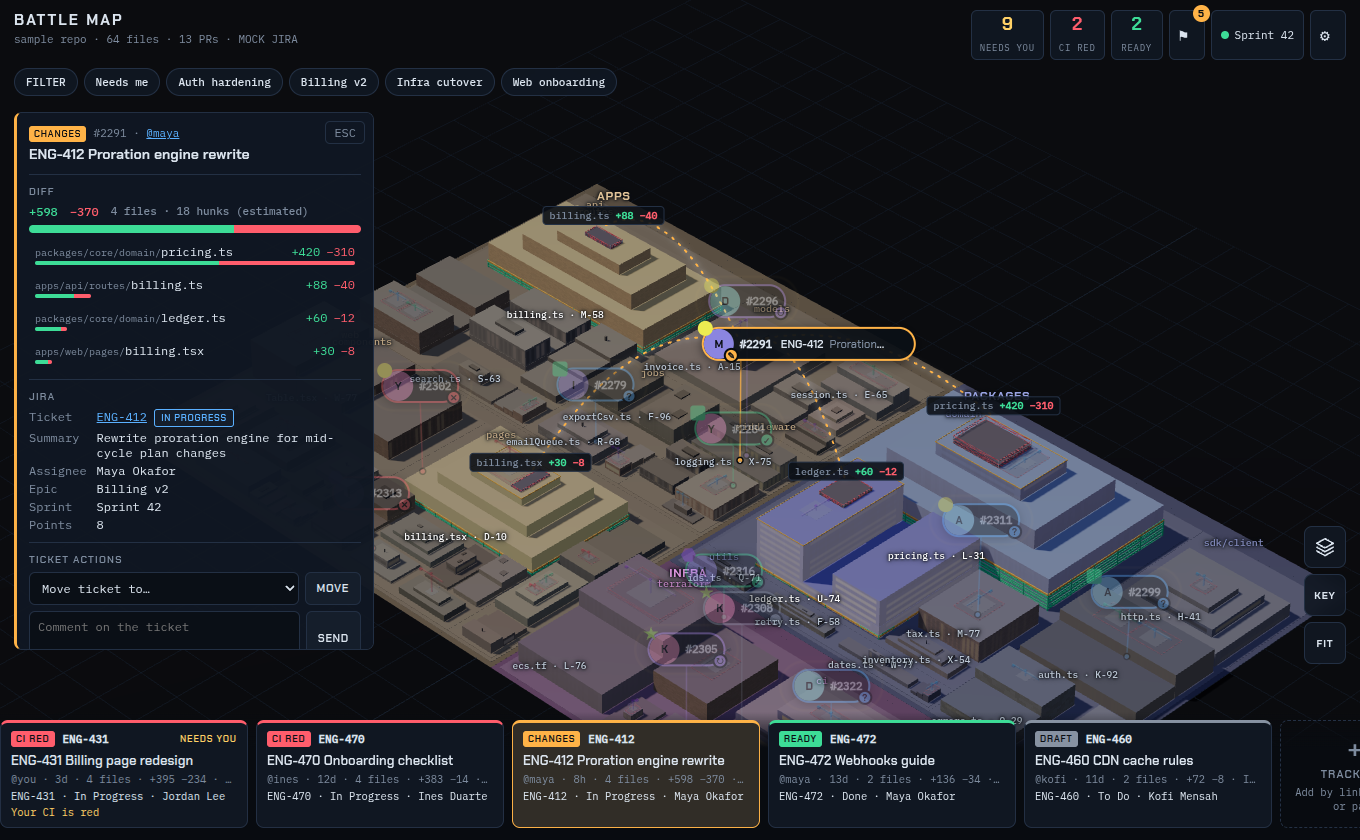
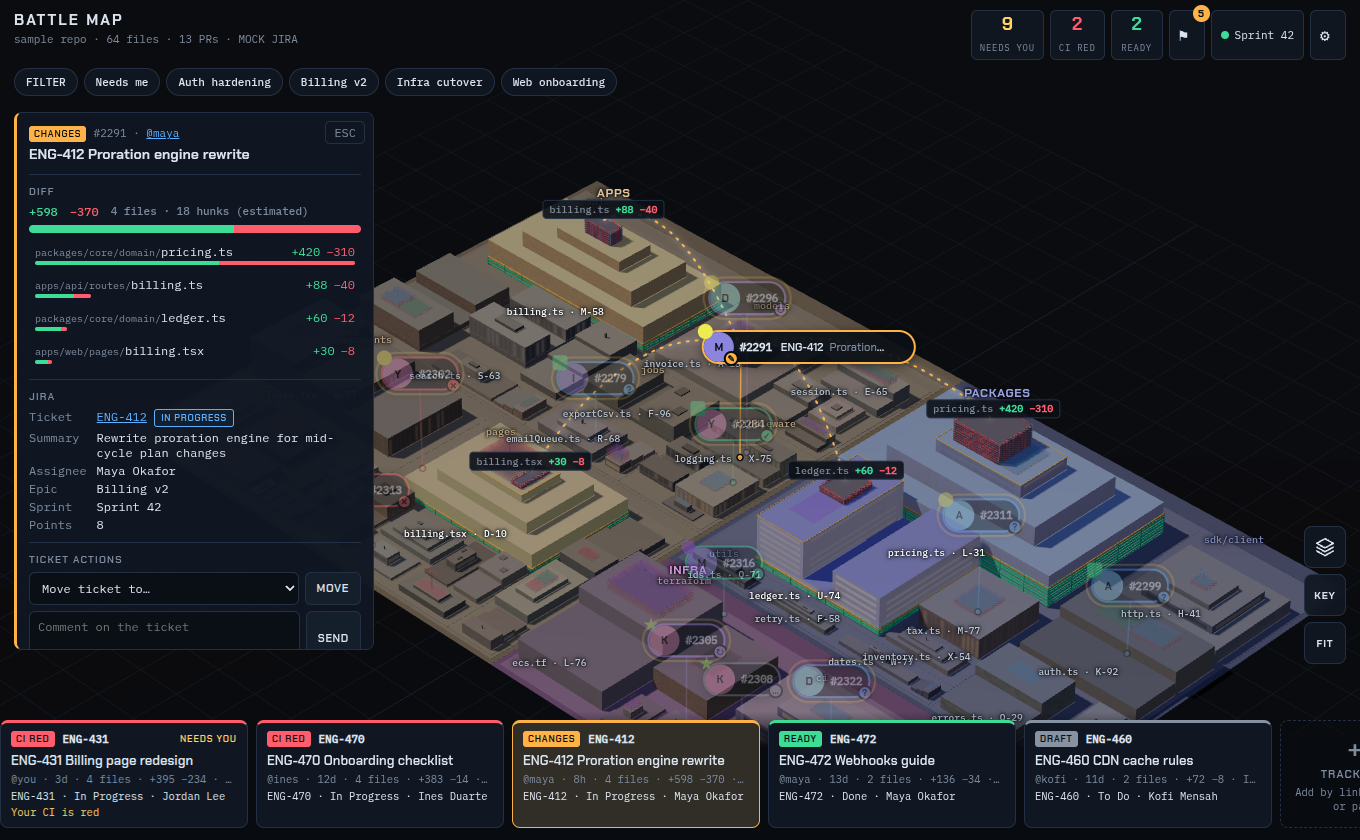
Construction sites: size everything on the one diff scale
A crane is one model scaled by lines added, never by its roof slot, so the same lines are the
same crane on any file (measured before: a 9-line crane spanned 3.5 to 42 units across files and
stood 6 tall against a scale of 3.4; now 3.5 against 3.4). The roof slot becomes a flat pad that
still shows the share of the file. Deletions are a stack of fixed-height taped floors, as many as
the deleted lines need on the same scale; focused scaffolding climbs as high as the lines added.
Flags, labels and dotted lines use the site's own height.

Changed region(s): [[0.2779, 0.2167, 0.9574, 0.8667], [0.9265, 0.65, 0.9574, 0.681]]

diff --git a/test/sites.test.js b/test/sites.test.js
@@ -1,6 +1,6 @@
 import test from 'node:test';
 import assert from 'node:assert/strict';
-import { craneParts, tapeFloor, scaffoldParts, siteParts } from '../web/sites.js';
+import { craneParts, tapeFloor, scaffoldParts, siteParts, FLOOR_H, MAX_FLOORS } from '../web/sites.js';
 import { buildLayout } from '../web/layout.js';
 import { buildingFor, DEFAULT_STYLE } from '../web/building.js';
 import { planSpires } from '../web/spires.js';
@@ -9,15 +9,30 @@ import { sampleFiles } from '../server/sample.js';
 const SLOT = { x: 50, y: 30, w: 12, d: 6 };
 const inside = (p, r, e = 1e-6) => p.x - p.w / 2 >= r.x - r.w / 2 - e && p.x + p.w / 2 <= r.x + r.w / 2 + e && p.y - p.d / 2 >= r.y - r.d / 2 - e && p.y + p.d / 2 <= r.y + r.d / 2 + e;
 
-test('a crane stands on its roof, inside its slot, as tall as asked, in status colours', () => {
-  for (const slot of [SLOT, { x: 10, y: 10, w: 4, d: 9 }, { x: 0, y: 0, w: 1.2, d: 1.2 }]) {
-    const parts = craneParts(slot, 20, 14);
-    assert.ok(parts.length >= 7 && parts.length <= 12);
-    for (const p of parts) assert.ok(inside(p, slot, 1e-6) || p.tone === 'metal', 'nothing hangs past the slot'), assert.ok(p.z >= 20 - 1e-9 && p.h > 0);
-    const top = Math.max(...parts.map((p) => p.z + p.h));
-    assert.ok(top >= 20 + 14 * 0.9 && top <= 20 + 14 + 2.5, `the crane is about as tall as the diff (${top - 20})`);
-    assert.ok(parts.some((p) => p.tone === 'status') && parts.some((p) => p.tone === 'statusDark'));
+const height = (n) => 1.15 * Math.sqrt(n);
+const top = (parts) => Math.max(...parts.filter((p) => !p.diag).map((p) => p.z + p.h));
+const bbox = (parts) => { const q = parts.filter((p) => p.tone !== 'pad'), xs = q.flatMap((p) => [p.x - p.w / 2, p.x + p.w / 2]), ys = q.flatMap((p) => [p.y - p.d / 2, p.y + p.d / 2]); return { w: Math.max(...xs) - Math.min(...xs), d: Math.max(...ys) - Math.min(...ys) }; };
+
+test('a crane is exactly as tall as the diff scale says, wherever it stands', () => {
+  for (const slot of [SLOT, { x: 10, y: 10, w: 4, d: 9 }, { x: 0, y: 0, w: 1.2, d: 1.2 }, { x: 0, y: 0, w: 90, d: 60 }]) for (const h of [3.4, 11.5, 23]) {
+    const parts = craneParts(slot, 20, h);
+    assert.ok(Math.abs(top(parts) - (20 + h)) < 1e-9, `height ${top(parts) - 20} for ${h}`);
+    assert.ok(parts.every((p) => p.z >= 20 - 1e-9 && p.h > 0));
+    assert.ok(parts.some((p) => p.tone === 'status') && parts.some((p) => p.tone === 'statusDark') && parts.some((p) => p.tone === 'pad'));
   }
+});
+
+test('the crane is one model scaled by the diff, never by the roof: same lines, same crane on any slot', () => {
+  const a = craneParts({ x: 0, y: 0, w: 4, d: 4 }, 0, 6), b = craneParts({ x: 0, y: 0, w: 80, d: 50 }, 0, 6);
+  assert.deepEqual(bbox(a), bbox(b), 'the pad changes with the file, the crane does not');
+  const small = bbox(craneParts({ x: 0, y: 0, w: 60, d: 40 }, 0, 3.4)), big = bbox(craneParts({ x: 0, y: 0, w: 5, d: 4 }, 0, 23));
+  assert.ok(big.w > small.w * 3, 'a 400-line crane on a tiny roof is still much bigger than a 9-line crane on a huge one');
+  let last = 0; for (const h of [2, 5, 10, 20, 30]) { const w = bbox(craneParts(SLOT, 0, h)).w; assert.ok(w > last, 'bigger diff, bigger crane'); last = w; }
+});
+
+test('the pad is the share of the file, and flat', () => {
+  const pad = craneParts({ x: 5, y: 5, w: 14, d: 7 }, 10, 8).find((p) => p.tone === 'pad');
+  assert.deepEqual([pad.w, pad.d, pad.z], [14, 7, 10]); assert.ok(pad.h < 0.5);
 });
 
 test('the jib runs along the longer side of the slot', () => {
@@ -48,35 +63,46 @@ test('scaffolding wraps the footprint from the ground to the top, with the top r
 });
 
 const column = (o = {}) => ({ x: 20, y: 20, w: 8, d: 5, z0: 12, total: 9, parts: [{ dz: 0, h: 9, kind: 'pr' }], add: 40, del: 6, focused: false, ...o });
-test('overview: a crane for additions, plus one taped floor when lines were deleted', () => {
-  const shell = { rect: { x: 10, y: 10, w: 20, h: 15 }, h: 12 };
-  const both = siteParts(column(), shell, { loc: 200 });
-  assert.ok(both.some((p) => p.tone === 'status') && both.some((p) => p.tone === 'tape') && !both.some((p) => p.tone === 'add'), 'crane and tape, no scaffolding');
-  const crane = both.filter((p) => p.tone !== 'tape' && p.tone !== 'post' && p.tone !== 'floor'); assert.ok(crane.every((p) => p.z >= 12));
-  const only = siteParts(column({ del: 0 }), shell, { loc: 200 }); assert.ok(!only.some((p) => p.tone === 'tape' || p.tone === 'floor'));
-  const del = siteParts(column({ add: 0, del: 30 }), shell, { loc: 200 }); assert.ok(del.some((p) => p.tone === 'tape') && !del.some((p) => p.tone === 'status'), 'pure deletion: just the taped floor');
-  const top = Math.max(...both.filter((p) => !p.diag).map((p) => p.z + p.h)); assert.ok(top <= 12 + 9 + 2.6, 'about as tall as the diff says');
+const SHELL = { rect: { x: 10, y: 10, w: 20, h: 15 }, h: 12 };
+const floors = (parts) => parts.filter((p) => p.tone === 'floor').length;
+test('overview: a crane as tall as the additions, on one taped floor per FLOOR_H of deletions', () => {
+  const both = siteParts(column({ add: 100, del: 30 }), SHELL, { heightOf: height });
+  assert.ok(both.parts.some((p) => p.tone === 'status') && both.parts.some((p) => p.tone === 'tape') && !both.parts.some((p) => p.tone === 'add'));
+  const nf = floors(both.parts); assert.equal(nf, Math.round(height(30) / FLOOR_H));
+  assert.ok(Math.abs(both.top - (12 + nf * FLOOR_H + height(100))) < 1e-9, 'floors, then a crane of exactly the additions');
+  const only = siteParts(column({ del: 0 }), SHELL, { heightOf: height }); assert.equal(floors(only.parts), 0); assert.ok(Math.abs(only.top - (12 + height(40))) < 1e-9);
+  const del = siteParts(column({ add: 0, del: 30 }), SHELL, { heightOf: height }); assert.ok(del.parts.some((p) => p.tone === 'tape') && !del.parts.some((p) => p.tone === 'status'), 'pure deletion: just the floors');
+  assert.equal(floors(siteParts(column({ del: 1 }), SHELL, { heightOf: height }).parts), 1, 'any deletion is at least one floor');
+  assert.equal(floors(siteParts(column({ del: 1e6 }), SHELL, { heightOf: height }).parts), MAX_FLOORS, 'and there is a ceiling');
 });
 
-test('focused: scaffolding for the additions, a taped floor per deleting hunk, no crane', () => {
-  const shell = { rect: { x: 10, y: 10, w: 20, h: 15 }, h: 12 };
-  const parts = [{ dz: 0, h: 3, kind: 'add', n: 30 }, { dz: 3, h: 1, kind: 'del', n: 4 }, { dz: 4, h: 2, kind: 'add', n: 10 }, { dz: 6, h: 1, kind: 'del', n: 8 }, { dz: 7, h: 1, kind: 'del', n: 9 }, { dz: 8, h: 1, kind: 'del', n: 9 }, { dz: 9, h: 1, kind: 'del', n: 9 }];
-  const s = siteParts(column({ focused: true, parts, add: 40, del: 39 }), shell, { loc: 100 });
-  assert.ok(s.some((p) => p.tone === 'add') && !s.some((p) => p.tone === 'statusDark'), 'scaffolding, no crane');
-  assert.equal(s.filter((p) => p.tone === 'floor').length, 3, 'one floor per deleting hunk, the rest merged, at most three');
-  const floors = s.filter((p) => p.tone === 'floor').map((p) => p.z); assert.ok(floors[0] === 12 && floors[1] > floors[0] && floors[2] > floors[1], 'stacked on the roof');
-  const scaf = s.filter((p) => p.tone === 'add'); assert.ok(Math.max(...scaf.filter((p) => !p.diag).map((p) => p.z + p.h)) <= shell.h + 1e-6, 'scaffolding never rises past the walled part');
-  const small = siteParts(column({ focused: true, add: 2, del: 0, parts: [{ dz: 0, h: 1, kind: 'add', n: 2 }] }), shell, { loc: 1000 });
-  assert.ok(Math.max(...small.filter((p) => p.tone === 'add' && !p.diag).map((p) => p.z + p.h)) >= 3 - 1e-6, 'a tiny change still gets a visible scaffold');
+test('the same lines are the same size in every column: two columns with 9 added lines match, however big their files and roofs', () => {
+  const a = siteParts(column({ add: 9, del: 0, w: 3, d: 3 }), SHELL, { heightOf: height }), b = siteParts(column({ add: 9, del: 0, w: 70, d: 40 }), SHELL, { heightOf: height });
+  assert.equal(a.top, b.top); assert.deepEqual(bbox(a.parts), bbox(b.parts));
+  assert.ok(siteParts(column({ add: 400, del: 0, w: 3, d: 3 }), SHELL, { heightOf: height }).top - 12 > (a.top - 12) * 4, 'and 400 lines stand several times taller than 9');
 });
 
-test('every column in the sample turns into a bounded number of boxes that stay on its roof', () => {
+test('focused: scaffolding as tall as the additions, floors for the deleting hunks, no crane', () => {
+  const parts = [{ dz: 0, h: 3, kind: 'add', n: 30 }, { dz: 3, h: 1, kind: 'del', n: 4 }, { dz: 4, h: 2, kind: 'add', n: 10 }, { dz: 6, h: 1, kind: 'del', n: 150 }];
+  const s = siteParts(column({ focused: true, parts, add: 40, del: 154 }), SHELL, { heightOf: height });
+  assert.ok(s.parts.some((p) => p.tone === 'add') && !s.parts.some((p) => p.tone === 'statusDark'), 'scaffolding, no crane');
+  assert.equal(floors(s.parts), 1 + Math.round(height(150) / FLOOR_H), 'a 4-line hunk is one floor, a 150-line hunk several');
+  const tops = s.parts.filter((p) => p.tone === 'floor').map((p) => p.z); assert.ok(tops[0] === 12 && tops.every((z, i) => !i || z > tops[i - 1]), 'stacked on the roof');
+  const scaf = s.parts.filter((p) => p.tone === 'add' && !p.diag), tall = Math.max(...scaf.map((p) => p.z + p.h));
+  assert.ok(Math.abs(tall - Math.min(SHELL.h, height(40))) < 1e-6, 'as tall as 40 added lines, up to the walled part');
+  const huge = siteParts(column({ focused: true, add: 5000, del: 0, parts: [{ dz: 0, h: 5, kind: 'add', n: 5000 }] }), SHELL, { heightOf: height });
+  assert.ok(Math.max(...huge.parts.filter((p) => p.tone === 'add' && !p.diag).map((p) => p.z + p.h)) <= SHELL.h + 1e-6, 'never past the walled part');
+  const small = siteParts(column({ focused: true, add: 2, del: 0, parts: [{ dz: 0, h: 1, kind: 'add', n: 2 }] }), SHELL, { heightOf: height });
+  assert.ok(Math.max(...small.parts.filter((p) => p.tone === 'add' && !p.diag).map((p) => p.z + p.h)) >= 2 - 1e-6, 'a tiny change still gets a visible scaffold');
+});
+
+test('every column in the sample turns into a bounded number of boxes', () => {
   const layout = buildLayout(sampleFiles()), st = { ...DEFAULT_STYLE }, b = new Map(), roofs = new Map();
   for (const l of layout.leaves) { const x = buildingFor(l, st, { gear: false }); b.set(l.path, x); roofs.set(l.path, { r: x.roof, height: x.roof.z }); }
   const prs = [{ id: '#1', status: 'review_requested', files: layout.leaves.map((l) => ({ path: l.path, add: 25, del: 5, hunks: [{ add: 25, del: 5 }] })) }];
   for (const focusId of [null, '#1']) for (const col of planSpires({ byPath: layout.byPath, prs, roofs, focusId })) {
-    const parts = siteParts(col, b.get(col.path).shell, { loc: layout.byPath.get(col.path).loc });
-    assert.ok(parts.length > 0 && parts.length < 120, `${parts.length} boxes`);
-    assert.ok(parts.every((p) => Number.isFinite(p.x + p.y + p.z) && (p.diag ? p.len > 0 : p.w > 0 && p.d > 0 && p.h > 0)));
+    const { parts, top: t } = siteParts(col, b.get(col.path).shell, { heightOf: height });
+    assert.ok(parts.length > 0 && parts.length < 220, `${parts.length} boxes`);
+    assert.ok(parts.every((p) => Number.isFinite(p.x + p.y + p.z) && (p.diag ? p.len > 0 : p.w > 0 && p.d > 0 && p.h > 0)) && t >= col.z0);
   }
 });

diff --git a/web/sites.js b/web/sites.js
@@ -11,26 +11,27 @@
 const clamp = (v, lo, hi) => Math.min(hi, Math.max(lo, v));
 
 /**
- * A tower crane that fits a roof slot. Its height is `h`; the jib runs along the longer side of the slot.
+ * A tower crane whose size is the diff and nothing else. The whole crane is one model scaled by `h` (its mast height,
+ * which the caller takes from the global diff scale), so a 9-line crane is a small crane wherever it stands and two
+ * cranes compare by eye. The roof slot only says where it stands: its pad is flat and its area is the share of the
+ * file changed, so that second fact is still there without bending the first. A big crane may overhang a small roof.
  * Mast and jib take the status colour, the counterweight a darker one, the hook line and hook are metal.
  */
 export function craneParts({ x, y, w, d }, z0, h) {
-  const longX = w >= d, L = Math.max(w, d) * 0.96, s = clamp(Math.min(w, d) * 0.2, 0.45, 1.3);
+  const longX = w >= d, s = clamp(h * 0.055, 0.22, 1.3), L = clamp(h * 0.85, 2.2, 40);
   const at = (o) => (longX ? { x: x + o, y } : { x, y: y + o });   // a point along the jib, o from the mast
   const box = (p, bw, bd, z, bh, tone) => ({ x: p.x, y: p.y, w: bw, d: bd, z, h: bh, tone });
   const along = (len, thick) => (longX ? [len, thick] : [thick, len]);
-  const jibZ = z0 + Math.max(h - s, h * 0.9), parts = [];
-  parts.push(box({ x, y }, Math.min(w, d) * 0.7, Math.min(w, d) * 0.7, z0, Math.min(0.4, h * 0.1), 'metal'));        // base
+  const jibZ = z0 + h - s * 1.1, parts = [];                      // the jib's top is the crane's height
+  parts.push(box({ x, y }, w, d, z0, 0.2, 'pad'));                                                                       // the pad: the share of the file
   parts.push(box({ x, y }, s, s, z0, Math.max(0.1, jibZ - z0), 'status'));                                               // mast
-  const jibLen = L * 0.72;                                                                                       // jib: from just past the mast out to the far end
-  const [jw, jd] = along(jibLen, s * 0.9);
+  const jibLen = L * 0.72, [jw, jd] = along(jibLen, s * 0.9);
   parts.push(box(at(L * 0.5 - jibLen / 2), jw, jd, jibZ, s * 1.1, 'status'));
   const [cw, cd] = along(L * 0.26, s * 0.9);                                                                            // counter-jib
   parts.push(box(at(-L * 0.5 + L * 0.13), cw, cd, jibZ, s * 1.1, 'status'));
   const [bw, bd] = along(s * 2.2, s * 1.8);                                                                             // counterweight
   parts.push(box(at(-L * 0.5 + s * 1.1), bw, bd, jibZ - s * 1.1, s * 1.4, 'statusDark'));
-  parts.push(box({ x, y }, s * 1.7, s * 1.7, jibZ + s, s * 1.2, 'statusDark'));                                          // cab
-  const hang = clamp(h * 0.38, 1, 12), hookAt = at(L * 0.32);
+  const hang = clamp(h * 0.38, 0.6, 12), hookAt = at(L * 0.32);
   parts.push(box(hookAt, s * 0.22, s * 0.22, jibZ - hang, hang, 'metal'));                                               // cable
   parts.push(box(hookAt, s * 1.3, s * 1.3, jibZ - hang - s * 0.9, s * 0.9, 'metal'));                                    // hook block
   return parts;
@@ -80,28 +81,31 @@ export function scaffoldParts(rect, top, { pad = 0.5, lift = 3.2, maxPoles = 28 
   return parts;
 }
 
-/**
- * Everything one column (one PR on one file) becomes. `col` is a column from planSpires, `shell` is
- * {rect, h}: the building's footprint and how high that footprint is fully walled (scaffolding stops there).
- * Overview: crane (+ one taped floor if lines were deleted). Focused: scaffolding for the additions (as tall as the square root of the share of the file added, so a small change is still visible), and one taped
- * floor per deleting hunk (the last ones merged, at most three), stacked on the roof.
- */
-export function siteParts(col, shell, { loc = 1, floorH = (n) => clamp(0.5 + n * 0.05, 1.2, 5) } = {}) {
-  const slot = { x: col.x, y: col.y, w: col.w, d: col.d }, parts = [];
-  let z = col.z0;
-  const delHunks = col.parts.filter((p) => p.kind === 'del').map((p) => p.n);
-  const floors = col.focused && delHunks.length ? mergeTail(delHunks, 3) : col.del > 0 ? [col.del] : [];
-  for (const n of floors) { const h = floorH(n); parts.push(...tapeFloor(slot, z, h)); z += h; }
-  if (col.focused) {
-    if (col.add > 0 && shell) parts.push(...scaffoldParts(shell.rect, clamp(shell.h * clamp(Math.sqrt(col.add / Math.max(1, loc)), 0.3, 1), Math.min(3, shell.h), shell.h)));
-  } else if (col.add > 0 || !floors.length) {
-    const h = Math.max(1.5, col.total - (z - col.z0));
-    parts.push(...craneParts(slot, z, h));
-  }
-  return parts;
-}
+/** One floor of the red-taped stack. Floors are all this tall, and there are as many as the deleted lines need. */
+export const FLOOR_H = 2.4, MAX_FLOORS = 10;
+const defaultHeight = (n) => 1.15 * Math.sqrt(n);
+const floorsFor = (n, heightOf) => (n > 0 ? clamp(Math.round(heightOf(n) / FLOOR_H), 1, MAX_FLOORS) : 0);
 
-function mergeTail(list, max) {
-  if (list.length <= max) return list;
-  return [...list.slice(0, max - 1), list.slice(max - 1).reduce((a, b) => a + b, 0)];
+/**
+ * What one column (one PR on one file) is made of, sized on the diff scale `heightOf(lines)` (the same one the toppers
+ * use) and nothing else. Returns {parts, top}: the boxes, and the height of the tallest thing, for flags and labels.
+ *   overview   a crane as tall as the additions, standing on one taped floor per FLOOR_H of deleted lines
+ *   focused    scaffolding as tall as the additions (never past the walled part of the building), and the deleting
+ *              hunks as taped floors on the roof, each hunk as many floors as its lines need
+ * So height always reads in lines: adds on the crane or scaffold, deletes on the floors, one scale for both.
+ */
+export function siteParts(col, shell, { heightOf = defaultHeight } = {}) {
+  const slot = { x: col.x, y: col.y, w: col.w, d: col.d }, parts = [];
+  const delHunks = col.parts.filter((p) => p.kind === 'del').map((p) => p.n);
+  const counts = col.focused && delHunks.length ? delHunks.map((n) => floorsFor(n, heightOf)) : [floorsFor(col.del, heightOf)];
+  let z = col.z0, used = 0;
+  for (const n of counts) for (let i = 0; i < n && used < MAX_FLOORS; i++, used++) { parts.push(...tapeFloor(slot, z, FLOOR_H)); z += FLOOR_H; }
+  let top = z;
+  if (col.focused) {
+    if (col.add > 0 && shell) { const t = clamp(heightOf(col.add), Math.min(2, shell.h), shell.h); parts.push(...scaffoldParts(shell.rect, t)); }   // the scaffold is on the walls, below the roof: it does not change the top
+  } else if (col.add > 0) {
+    const h = Math.max(0.8, heightOf(col.add));
+    parts.push(...craneParts(slot, z, h)); top = z + h;
+  } else if (!used) { parts.push(...craneParts(slot, z, 0.8)); top = z + 0.8; }
+  return { parts, top };
 }

diff --git a/web/scene.js b/web/scene.js
@@ -3,7 +3,7 @@
 import * as THREE from 'three';
 import { OrbitControls } from 'three/addons/controls/OrbitControls.js';
 import { buildLayout, WORLD } from './layout.js';
-import { planSpires, DIFF_COLORS } from './spires.js';
+import { planSpires, DIFF_COLORS, diffHeight } from './spires.js';
 import { ageDays, ageLift } from './filters.js';
 import { buildingFor, DEFAULT_STYLE, SHAPES } from './building.js';
 import { siteParts } from './sites.js';
@@ -329,11 +329,16 @@ export function createScene(host, handlers = {}) {
   }
 
   const capHeight = (c) => Math.min(2.4, 0.5 + Math.min(c.w, c.d) * 0.18);
+  const colTotal = (c) => (c.siteTop !== undefined ? c.siteTop : c.total);   // how tall the thing on this roof is: a site's own height, or the topper's
 
   // ---- construction sites (the Buildings style): cranes, scaffolding and red-taped floors instead of plain toppers ----
   // Planned once per set of columns (the shapes are pure, see web/sites.js), then drawn every frame while they grow.
   function planSites() {
-    S.sites = S.style.mode !== 'full' ? null : S.columns.map((c) => ({ c, parts: siteParts(c, S.styled.get(c.path)?.shell, { loc: S.layout.byPath.get(c.path).loc }) }));
+    S.sites = null;
+    for (const c of S.columns) c.siteTop = undefined;
+    if (S.style.mode !== 'full') return;
+    // sized on the same diff scale as the toppers (spires.js), so heights compare across the whole map
+    S.sites = S.columns.map((c) => { const r = siteParts(c, S.styled.get(c.path)?.shell, { heightOf: (n) => diffHeight(n, S.opts.mode) }); c.siteTop = r.top - c.z0; return { c, parts: r.parts }; });
   }
   const siteColor = (tone, st) => {
     switch (tone) {
@@ -341,6 +346,7 @@ export function createScene(host, handlers = {}) {
       case 'statusDark': return _c.copy(st).offsetHSL(0, 0, -0.16);
       case 'metal': return _c.set(0x9aa5b1);
       case 'add': return _c.set(DIFF_COLORS.add);
+      case 'pad': return _c.copy(st).offsetHSL(0, -0.15, -0.22);
       case 'tape': return _c.set(DIFF_COLORS.del);
       case 'post': return _c.set(0xd7dbe2);
       default: return _c.set(0x6b6670);            // the emptied floor
@@ -388,7 +394,7 @@ export function createScene(host, handlers = {}) {
       drawSites(p);
       [boxes, caps, gBoxes, gCaps].forEach((x) => x.end());
       drawRims();
-      S.focusLabels = S.columns.filter((c) => c.focused).slice(0, diffLabels.length).map((c) => ({ c, top: c.z0 + (c.total + capHeight(c)) * p + 1.5 }));
+      S.focusLabels = S.columns.filter((c) => c.focused).slice(0, diffLabels.length).map((c) => ({ c, top: c.z0 + (colTotal(c) + capHeight(c)) * p + 1.5 }));
       return;
     }
     const solidCols = S.columns.filter((c) => !c.dimmed), glassCols = S.columns.filter((c) => c.dimmed);
@@ -407,7 +413,7 @@ export function createScene(host, handlers = {}) {
     }
     [boxes, caps, gBoxes, gCaps].forEach((x) => x.end());
     drawRims();
-    S.focusLabels = S.columns.filter((c) => c.focused).slice(0, diffLabels.length).map((c) => ({ c, top: c.z0 + (c.total + capHeight(c)) * p + 1.5 }));
+    S.focusLabels = S.columns.filter((c) => c.focused).slice(0, diffLabels.length).map((c) => ({ c, top: c.z0 + (colTotal(c) + capHeight(c)) * p + 1.5 }));
   }
 
   // ---- flags (PR banners, owned by the UI, positioned here) ----
@@ -420,7 +426,7 @@ export function createScene(host, handlers = {}) {
       const x = cols.reduce((a, c) => a + c.x, 0) / cols.length, y = cols.reduce((a, c) => a + c.y, 0) / cols.length;
       // Optionally the pole grows with the PR's age, so what has been open longest stands tallest.
       const lift = S.opts.ageLift ? ageLift(ageDays(pr.createdAt, Date.now())) : 0;
-      const top = Math.max(...cols.map((c) => c.z0 + c.total + capHeight(c))) + 6 + lift;
+      const top = Math.max(...cols.map((c) => c.z0 + colTotal(c) + capHeight(c))) + 6 + lift;
       want.set(pr.id, { pr, x, y, top });
     }
     for (const [id, f] of S.flags) if (!want.has(id)) { f.el.remove(); S.flags.delete(id); }
@@ -522,7 +528,7 @@ export function createScene(host, handlers = {}) {
         const col = statusColor(f.pr.status), p = S.growth.p;
         for (const c of S.columns) {
           if (c.prId !== f.pr.id || c.dimmed && S.ui.lines !== 'all') continue;
-          const t = project(c.x, c.y, c.z0 + (c.total + capHeight(c)) * p);
+          const t = project(c.x, c.y, c.z0 + (colTotal(c) + capHeight(c)) * p);
           if (!t.vis) continue;
           let el = lines[li]; if (!el) { el = svgEl('path', 'bm-line'); gLines.appendChild(el); lines[li] = el; }
           const ax = f.sx, ay = f.sy - FLAG_H / 2;
@@ -559,7 +565,7 @@ export function createScene(host, handlers = {}) {
     const xs = cols.flatMap((c) => [c.x - c.w / 2, c.x + c.w / 2]), ys = cols.flatMap((c) => [c.y - c.d / 2, c.y + c.d / 2]);
     const cx = (Math.min(...xs) + Math.max(...xs)) / 2, cy = (Math.min(...ys) + Math.max(...ys)) / 2;
     const r = Math.max(26, Math.hypot(Math.max(...xs) - Math.min(...xs), Math.max(...ys) - Math.min(...ys)) / 2 + 18);
-    flyTo(cx, cy, Math.max(...cols.map((c) => c.z0 + c.total)) / 2, r);
+    flyTo(cx, cy, Math.max(...cols.map((c) => c.z0 + colTotal(c))) / 2, r);
   }
   function flyToFile(path) { const l = S.layout?.byPath.get(path); if (l) flyTo(l.mx, l.my, roofOf(l).top / 2, Math.max(22, Math.hypot(l.r.w, l.r.h) / 2 + 14)); }
   function setView(kind, { instant = false } = {}) {

diff --git a/web/main.js b/web/main.js
@@ -342,9 +342,9 @@ function openKey() {
       h('ul', { class: 'sw2' }, Object.values(STATUS).filter((v) => !v.ended).map((v) => sw(v.color, `${v.label} ${v.glyph}`))),
       h('h3', null, 'CONSTRUCTION SITES (Layers > Buildings > Buildings)'),
       h('ul', null,
-        h('li', null, h('b', null, 'Crane'), ' on a roof = a PR is adding code to this file. Its colour is the PR\u2019s status, so it matches the flag; its height is lines changed on the same scale as toppers. Two PRs on one roof, two cranes.'),
-        h('li', null, h('b', null, 'Scaffolding'), ' up the walls (green, with a ring in the PR colour at the top) = you focused a PR and this is what it adds. The taller it climbs, the bigger the share of the file added.'),
-        h('li', null, h('b', null, 'Red-taped floor'), ' = lines were deleted. An emptied floor with red tape in an X on every face; focused, one floor per deleting hunk. Taller means more lines deleted.'),
+        h('li', null, h('b', null, 'Crane'), ' on a roof = a PR is adding code to this file. Its colour is the PR\u2019s status, so it matches the flag. The whole crane is scaled by lines added on the same scale as the toppers, whatever the file or roof, so the same lines are the same crane anywhere. The flat pad under it is the share of the file changed. Two PRs on one roof, two cranes.'),
+        h('li', null, h('b', null, 'Scaffolding'), ' up the walls (green, with a ring in the PR colour at the top) = you focused a PR and this is what it adds. It climbs as high as lines added on the same scale (never past the part of the building that is fully walled).'),
+        h('li', null, h('b', null, 'Red-taped floor'), ' = lines were deleted. An emptied floor with red tape in an X on every face. The stack is as tall as lines deleted on that same scale (one floor is 2.4 of it, up to ten floors); focused, each deleting hunk is its own floors.'),
         h('li', null, 'The Plain and Colours styles keep the plain toppers described above.')),
       h('h3', null, 'FOCUSED PR'),
       h('ul', null, sw(DIFF_COLORS.add, 'Added lines, one block per hunk'), sw(DIFF_COLORS.del, 'Deleted lines, one block per hunk (slightly narrower)'), h('li', null, 'Block heights are proportional to line counts. Other PRs turn to glass.'), h('li', null, 'Moving dotted lines run from the flag to every file the PR touches.')),

diff --git a/README.md b/README.md
@@ -19,7 +19,7 @@ Needs Node 20+. `npm link` gives you a global `battlemap` command.
 * **Footprint** = lines of code. **Height** = complexity. **Colour** = top-level package. Same file list, same map, every time.
 * **Buildings.** Every file also gets a look of its own, derived from a hash of its path: a shade inside its folder's colour, a silhouette (block, stepped, crown, L-shape, tower on a podium, terraced slabs or twin towers), a wall material (concrete, brick, stone or steel), a window pattern with its own window size, share of lit windows and warm glow, and a rooftop detail (antenna, water tank, vents). Each building also keeps a margin of its own inside its lot, so there are gaps and a mix of widths, like blocks of a city. The same file always looks the same, so neighbours in one folder are easy to tell apart without reading labels, and the folder colour still reads from far away. A short **index code** on each roof (`C-14`) gives people a name to say out loud: "look at C-14". It also shows in the hover tip and the file bar. Footprint still follows lines of code and height still follows complexity.
 * **Toppers.** Each PR that touches a file raises a column on that roof. Its **width** is the share of the file the PR changes (at least 20%, so one-line edits still show), and two PRs on one file split the roof. Its **height** is lines changed (adds + dels) on one global scale, so any two toppers on the map compare by eye. Layers > Spires switches the height scale between square root (default), linear and log, and the width between "Share of file" and "Slim".
-* **Construction sites** (Layers > Buildings > Buildings; Plain and Colours keep the toppers). A PR that adds code to a file puts a **tower crane** on its roof, in the PR's status colour so it matches the flag, as tall as the lines changed on the same global scale. Two PRs on one roof, two cranes. A PR that **deletes** lines adds a **red-taped floor**: an emptied floor, open frame, with red tape in an X on every face; the more it deletes, the taller. **Focus a PR** and its cranes give way to **scaffolding** up the walls (green, with a ring in the PR colour on top, climbing with the share of the file added) and one taped floor per deleting hunk. Every other PR turns to glass.
+* **Construction sites** (Layers > Buildings > Buildings; Plain and Colours keep the toppers). One rule keeps them comparable: **height is lines, on the one global scale the toppers use**. A PR that adds code to a file puts a **tower crane** on its roof, in the PR's status colour so it matches the flag. The whole crane is scaled by the lines added, whatever the file or roof, so 9 lines is the same small crane everywhere and 400 lines a big one. The flat **pad** under it is the share of the file changed (at least 20%), so that fact is still there without bending the size. A PR that **deletes** lines adds a **red-taped floor** stack, an emptied open frame with an X of tape on every face, as tall as the lines deleted on that same scale (one floor is 2.4 units, up to ten). **Focus a PR** and its crane gives way to **scaffolding** up the walls (green, with a ring in the PR colour on top) as high as the lines added, up to the building's fully walled height, plus one stack of floors per deleting hunk. Every other PR turns to glass. Two PRs on one roof, two cranes.
 * **Contested files** (two or more PRs) get a static amber frame around the roof.
 * **Focus a PR** (tap a card, flag or topper). Its columns split into hunks: red for deleted lines, green for added, heights proportional to lines. Every other PR turns to glass. Per-file `+n -n` floats over each topper and the left panel lists every file with a green/red bar. Moving dotted lines run from the flag to every file it touches.
 * **Flags** are PRs, and each fact has its own channel so they can be told apart from far away: the text is the PR number, ring colour = status, fill = author, the corner emblem (shape and hue) = epic, gold pulse = needs you. Every PR in one epic wears the same emblem. **Fog of war** dims files nobody is working on.
